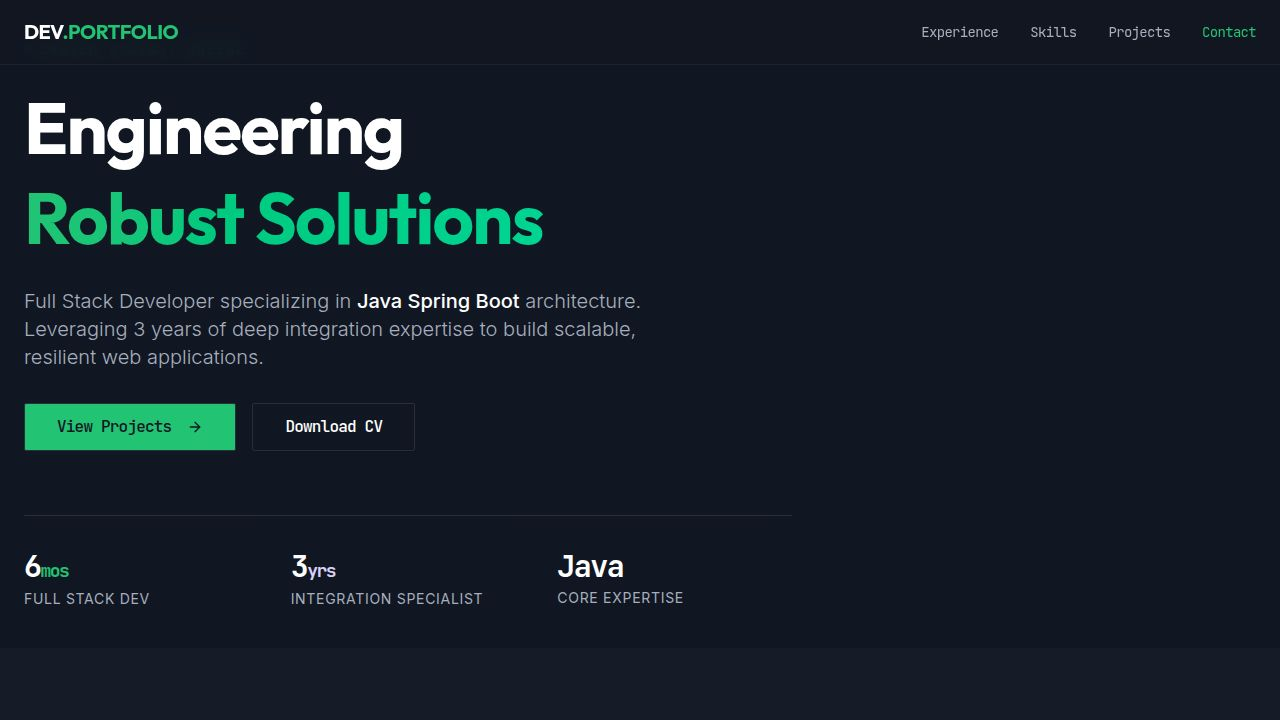
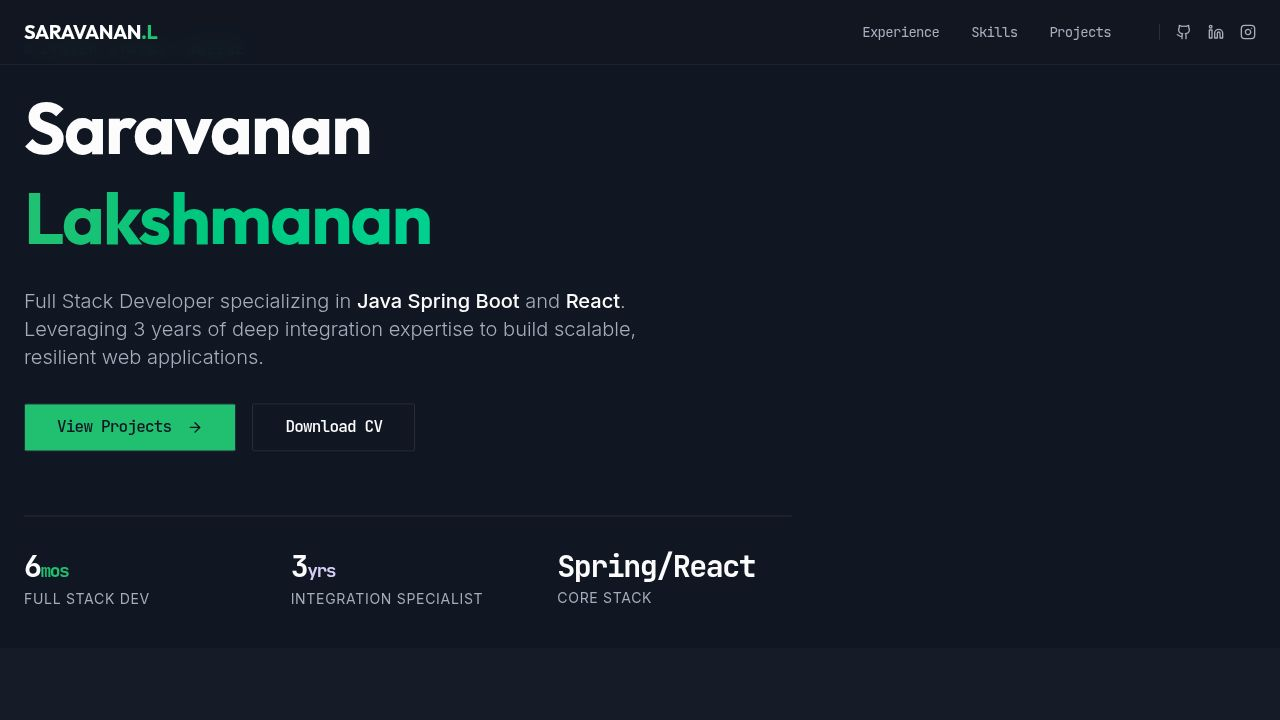
Personalize portfolio with owner's name and social media links
Update meta tags, hero section title, navigation branding, and footer with "Saravanan Lakshmanan." Integrate GitHub, LinkedIn, and Instagram links using lucide-react icons.

Replit-Commit-Author: Agent
Replit-Commit-Session-Id: 5d2cc70d-4a69-468b-a256-5b6026a5bbf6
Replit-Commit-Checkpoint-Type: full_checkpoint
Replit-Commit-Event-Id: 3fd29cc8-f80c-4be4-8eec-6c84f26a1996
Replit-Commit-Screenshot-Url: https://storage.googleapis.com/screenshot-production-us-central1/5bb94bf1-8e5c-40fc-b521-6b4e5792b9c7/5d2cc70d-4a69-468b-a256-5b6026a5bbf6/Q47k72c
Replit-Helium-Checkpoint-Created: true

diff --git a/client/src/pages/home.tsx b/client/src/pages/home.tsx
@@ -1,4 +1,5 @@
 import { Link } from "wouter";
+import { Github, Linkedin, Instagram } from "lucide-react";
 import Hero from "@/components/hero";
 import Experience from "@/components/experience";
 import Skills from "@/components/skills";
@@ -10,13 +11,23 @@ export default function Home() {
       <nav className="fixed top-0 left-0 right-0 z-50 bg-background/80 backdrop-blur-md border-b border-white/5">
         <div className="container mx-auto px-6 h-16 flex items-center justify-between">
           <div className="font-heading font-bold text-xl tracking-tight text-white">
-            DEV<span className="text-primary">.PORTFOLIO</span>
+            SARAVANAN<span className="text-primary">.L</span>
           </div>
           <div className="hidden md:flex items-center gap-8 font-mono text-sm text-muted-foreground">
             <a href="#" className="hover:text-white transition-colors">Experience</a>
             <a href="#" className="hover:text-white transition-colors">Skills</a>
             <a href="#" className="hover:text-white transition-colors">Projects</a>
-            <a href="#" className="text-primary hover:text-primary/80 transition-colors">Contact</a>
+            <div className="flex items-center gap-4 ml-4 pl-4 border-l border-white/10">
+              <a href="https://github.com/sarava338" target="_blank" rel="noreferrer" className="hover:text-primary transition-colors">
+                <Github className="w-4 h-4" />
+              </a>
+              <a href="https://linkedin.com/in/sarava338" target="_blank" rel="noreferrer" className="hover:text-primary transition-colors">
+                <Linkedin className="w-4 h-4" />
+              </a>
+              <a href="https://instagram.com/sarava338" target="_blank" rel="noreferrer" className="hover:text-primary transition-colors">
+                <Instagram className="w-4 h-4" />
+              </a>
+            </div>
           </div>
         </div>
       </nav>
@@ -30,7 +41,7 @@ export default function Home() {
 
       <footer className="py-8 border-t border-white/5 bg-black/20">
         <div className="container mx-auto px-6 text-center text-sm text-muted-foreground font-mono">
-          <p>© 2024 Built with React & Spring Boot Principles.</p>
+          <p>© 2024 Saravanan Lakshmanan. Built with React & Spring Boot Principles.</p>
         </div>
       </footer>
     </div>

diff --git a/client/index.html b/client/index.html
@@ -4,13 +4,13 @@
     <meta charset="UTF-8" />
     <meta name="viewport" content="width=device-width, initial-scale=1.0, maximum-scale=1" />
 
-    <title>Full Stack Developer | Integration Specialist</title>
-    <meta property="og:title" content="Full Stack Developer Portfolio" />
-    <meta property="og:description" content="Specialized in Java Spring Boot & System Integration. bridging the gap between legacy systems and modern web architecture." />
+    <title>Saravanan Lakshmanan | Full Stack Developer & Integration Specialist</title>
+    <meta property="og:title" content="Saravanan Lakshmanan Portfolio" />
+    <meta property="og:description" content="Portfolio of Saravanan Lakshmanan, a Full Stack Developer specialized in Java Spring Boot & webMethods Integration." />
     <meta property="og:type" content="website" />
     <meta property="og:image" content="/assets/hero-bg.png" />
     <meta name="twitter:card" content="summary_large_image" />
-    <meta name="twitter:title" content="Full Stack Developer Portfolio" />
+    <meta name="twitter:title" content="Saravanan Lakshmanan Portfolio" />
     <meta name="twitter:description" content="Specialized in Java Spring Boot & System Integration." />
     <meta name="twitter:image" content="/assets/hero-bg.png" />
 

diff --git a/client/src/components/hero.tsx b/client/src/components/hero.tsx
@@ -28,9 +28,9 @@ export default function Hero() {
           </div>
 
           <h1 className="text-5xl md:text-7xl font-heading font-bold leading-tight text-white mb-6">
-            Engineering <br />
+            Saravanan <br />
             <span className="text-transparent bg-clip-text bg-gradient-to-r from-primary to-emerald-400">
-              Robust Solutions
+              Lakshmanan
             </span>
           </h1>
 
